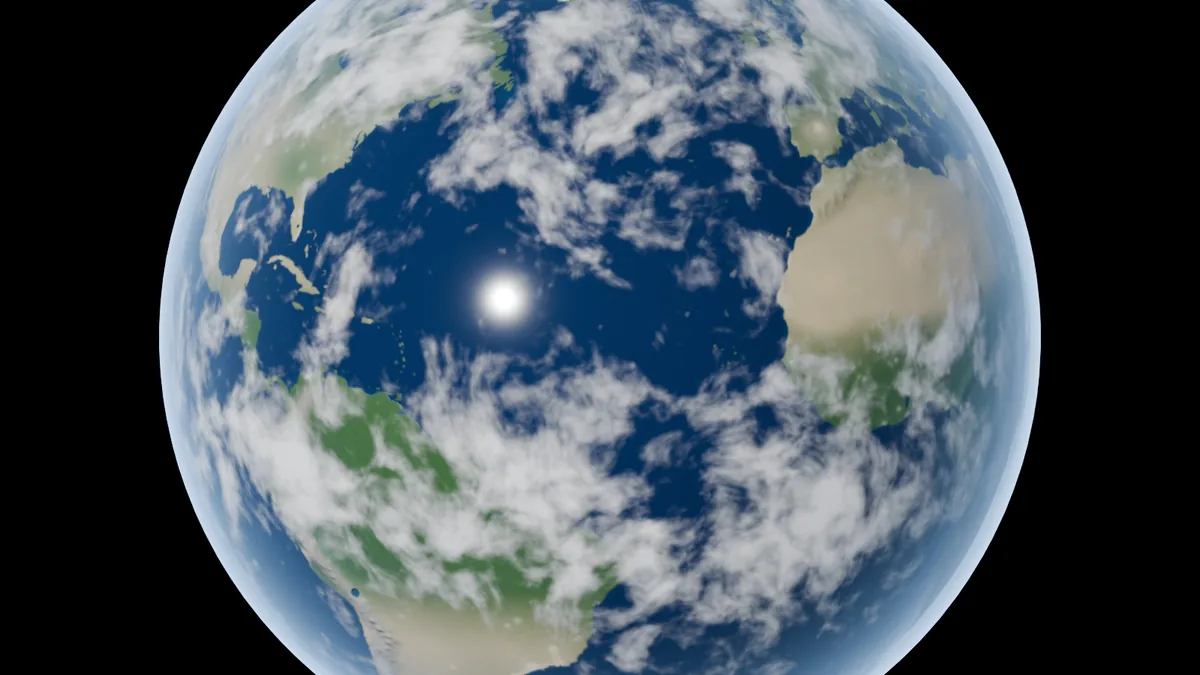
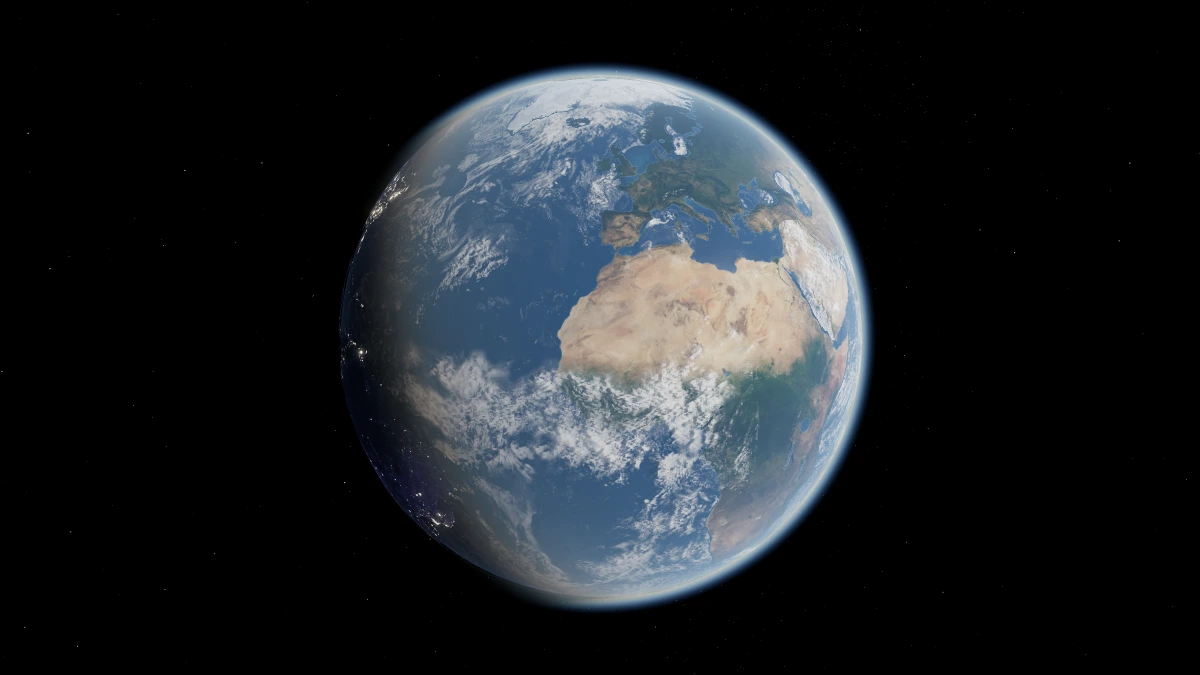
Sync with Earth Chronicle's redesign: re-shot poster, clouds on the hero globe, log entries
Earth Chronicle's interface was redesigned on 2026-11-12, but the homepage still showed it as
it used to look.

Poster and share cards
- earth_preview_{1200,800}.webp are re-shot from the app itself (present-day mode, interface
  hidden): the whole globe in frame, without the white sun-glint patch the app fixed long ago.
- New optional `posterFit: 'cover'` in products.js. The Earth poster keeps its subject inside the
  central square, so it can fill the near-square screen instead of sitting between two black
  bands; the other posters keep the default contain, which their edges need.
- make-og.py located the globe by thresholding; the new poster has stars and a dark night limb,
  so it now blurs first and centres on the image. Both share cards regenerated.

Hero globe
- A cloud layer with shadows, drifting slowly. The 113 KB cloud map loads after the globe is
  already showing and fades in, so it never delays the first frame.
- The ocean glint was one broad lobe that painted a white patch over the Gulf of Mexico; it is now
  a tight core plus a faint sheen.
- The atmosphere read as a ring of white fog: the shell is thinner (1.06 R), confined to the limb,
  and dark on the night side. Oceans are lifted slightly from Blue Marble's near-black.
- screenshots.mjs waits for the cloud layer before capturing.

Content
- Two log entries (zh + en): Earth Chronicle's interface redesign, and this update.
- design-review.md: re-shoot a work's poster whenever the work is redesigned.

diff --git a/src/globe.js b/src/globe.js
@@ -1,6 +1,7 @@
 // Hero globe: a real-time Three.js Earth with custom GLSL (day/night terminator, city lights,
-// ocean specular, atmospheric rim). Loads lazily after first paint; the static poster image stays
-// as the fallback when WebGL is unavailable or until textures are ready.
+// drifting clouds with shadows, ocean glint, a thin atmospheric limb). Loads lazily after first
+// paint; the static poster image stays as the fallback when WebGL is unavailable or until textures
+// are ready. The cloud map arrives after the globe is already showing and fades in.
 const orb = document.querySelector('.orb');
 const canvas = document.getElementById('globe');
 const reduceMotion = matchMedia('(prefers-reduced-motion: reduce)');
@@ -20,7 +21,10 @@ const VERT = /* glsl */ `
 const EARTH_FRAG = /* glsl */ `
   uniform sampler2D uDay;
   uniform sampler2D uNight;
+  uniform sampler2D uClouds;
   uniform vec3 uSun;
+  uniform float uCloudShift;   // clouds drift slowly over the ground (offset in u)
+  uniform float uCloudMix;     // 0 until the cloud map has loaded, then eased to 1
   varying vec2 vUv;
   varying vec3 vNormal;
   varying vec3 vWorldPos;
@@ -34,30 +38,46 @@ const EARTH_FRAG = /* glsl */ `
     vec3 dayCol = texture2D(uDay, vUv).rgb;
     vec3 lights = texture2D(uNight, vUv).rgb;
 
+    // oceans are the bluish pixels of the colour map. Blue Marble water is nearly black, which
+    // reads as a hole beside the lit land, so lift it slightly.
+    float ocean = smoothstep(0.02, 0.14, dayCol.b - max(dayCol.r, dayCol.g));
+    dayCol += vec3(0.010, 0.040, 0.085) * ocean;
+
+    vec2 cuv = vec2(vUv.x + uCloudShift, vUv.y);
+    float cloud = smoothstep(0.2, 0.95, texture2D(uClouds, cuv).r) * uCloudMix;   // thinned: the continents must stay readable
+    float cloudShadow = smoothstep(0.2, 0.95, texture2D(uClouds, cuv + vec2(0.004, 0.0)).r) * uCloudMix;
+
     // diffuse with a soft ambient floor so the night side is not pure black
-    vec3 col = dayCol * (0.035 + 0.95 * max(ndl, 0.0));
+    vec3 col = dayCol * (0.035 + 1.3 * max(ndl, 0.0));
+    col *= 1.0 - 0.32 * cloudShadow * day;
 
     // warm twilight band along the terminator
     float twilight = smoothstep(-0.18, 0.04, ndl) * (1.0 - smoothstep(0.04, 0.32, ndl));
     col += dayCol * vec3(0.9, 0.45, 0.2) * twilight * 0.35;
 
-    // city lights on the night side
-    col += lights * vec3(1.0, 0.86, 0.62) * (1.0 - day) * 1.5;
+    // city lights on the night side, dimmed under cloud
+    col += lights * vec3(1.0, 0.86, 0.62) * (1.0 - day) * 1.5 * (1.0 - 0.7 * cloud);
 
-    // ocean specular: oceans are the bluish pixels of the color map
-    float ocean = smoothstep(0.02, 0.14, dayCol.b - max(dayCol.r, dayCol.g));
+    // sun glint on open water: a tight core plus a faint wide sheen. A single broad lobe used to
+    // paint a white patch over whole seas.
     vec3 H = normalize(L + V);
-    float spec = pow(max(dot(N, H), 0.0), 60.0) * ocean * 0.55 * day;
-    col += vec3(1.0, 0.95, 0.85) * spec;
+    float nh = max(dot(N, H), 0.0);
+    float spec = (pow(nh, 240.0) * 0.45 + pow(nh, 26.0) * 0.045) * ocean * day * (1.0 - cloud);
+    col += vec3(1.0, 0.93, 0.82) * spec;
 
-    // thin atmospheric rim on the lit limb
-    float rim = pow(1.0 - max(dot(N, V), 0.0), 3.2);
-    col += vec3(0.35, 0.6, 1.0) * rim * (0.25 + 0.75 * day) * 0.9;
+    // clouds: lit by the sun, warm at the terminator, almost invisible at night
+    vec3 cloudCol = vec3(0.03 + 0.98 * max(ndl, 0.0)) + vec3(0.9, 0.55, 0.3) * twilight * 0.16;
+    col = mix(col, cloudCol, cloud * 0.86);
+
+    // thin blue limb where the line of sight grazes the air
+    float rim = pow(1.0 - max(dot(N, V), 0.0), 3.6);
+    col += vec3(0.30, 0.55, 1.0) * rim * (0.06 + 0.94 * day) * 0.26;
 
     gl_FragColor = vec4(col, 1.0);
     #include <colorspace_fragment>
   }`;
 
+// The shell is 6% larger than the planet, so the planet's edge sits at dot(N, V) = 0.33 on it.
 const ATMO_FRAG = /* glsl */ `
   uniform vec3 uSun;
   varying vec3 vNormal;
@@ -66,11 +86,11 @@ const ATMO_FRAG = /* glsl */ `
     vec3 N = normalize(vNormal);
     vec3 V = normalize(cameraPosition - vWorldPos);
     float f = dot(N, V);                       // 1 at disc centre, 0 at the outer edge of the shell
-    float inner = smoothstep(0.85, 0.36, f);   // fade out over the planet disc
-    float outer = smoothstep(0.0, 0.36, f);    // fade out towards space
-    float lit = 0.3 + 0.7 * smoothstep(-0.35, 0.45, dot(N, normalize(uSun)));
-    float a = inner * outer * lit;
-    gl_FragColor = vec4(vec3(0.42, 0.66, 1.0) * a * 0.85, a);
+    float outer = smoothstep(0.0, 0.33, f);    // fade out towards space
+    float inner = smoothstep(0.52, 0.33, f);   // fade out over the planet disc (its outer ~8%)
+    float lit = 0.05 + 0.95 * smoothstep(-0.3, 0.5, dot(N, normalize(uSun)));
+    float a = inner * outer * outer * lit;
+    gl_FragColor = vec4(vec3(0.34, 0.6, 1.0) * a * 0.62, a);
     #include <colorspace_fragment>
   }`;
 
@@ -112,14 +132,20 @@ async function start() {
   const spin = new THREE.Group();        // rotates about the (tilted) polar axis
   tilt.add(spin);
 
+  // clouds start as a 1x1 black texture (no cloud) and are swapped in once the real map has loaded
+  const noClouds = new THREE.DataTexture(new Uint8Array([0, 0, 0, 255]), 1, 1);
+  noClouds.needsUpdate = true;
+  const earthUniforms = { uDay: { value: day }, uNight: { value: night }, uClouds: { value: noClouds }, uSun: { value: sun }, uCloudShift: { value: 0 }, uCloudMix: { value: 0 } };
+  let cloudsReady = false;
+
   const earth = new THREE.Mesh(
     new THREE.SphereGeometry(1, 96, 96),
-    new THREE.ShaderMaterial({ vertexShader: VERT, fragmentShader: EARTH_FRAG, uniforms: { uDay: { value: day }, uNight: { value: night }, uSun: { value: sun } } }),
+    new THREE.ShaderMaterial({ vertexShader: VERT, fragmentShader: EARTH_FRAG, uniforms: earthUniforms }),
   );
   spin.add(earth);
 
   const atmo = new THREE.Mesh(
-    new THREE.SphereGeometry(1.085, 96, 96),
+    new THREE.SphereGeometry(1.06, 96, 96),
     new THREE.ShaderMaterial({ vertexShader: VERT, fragmentShader: ATMO_FRAG, uniforms: { uSun: { value: sun } }, transparent: true, depthWrite: false, blending: THREE.AdditiveBlending }),
   );
   atmo.renderOrder = 1;
@@ -190,6 +216,11 @@ async function start() {
       if (Math.abs(velY) < 1e-4) velY = 0;
       if (autoSpeed() || velX || velY) needsRender = true;
     }
+    if (cloudsReady) {
+      const u = earthUniforms;
+      if (u.uCloudMix.value < 1) { u.uCloudMix.value = Math.min(1, u.uCloudMix.value + dt / 1.4); needsRender = true; }
+      if (autoSpeed()) u.uCloudShift.value = (u.uCloudShift.value + dt * 0.0035) % 1;   // weather drifts east
+    }
     // ease the user's pitch on top of the base viewing angle
     const targetX = 0.28 + pitch;
     if (Math.abs(tilt.rotation.x - targetX) > 1e-4) { tilt.rotation.x += (targetX - tilt.rotation.x) * 0.15; needsRender = true; }
@@ -215,6 +246,18 @@ async function start() {
   showTheta(performance.now(), true);
   orb.classList.add('ready');
   loop();
+
+  // the cloud map is the least essential texture, so it never delays the globe
+  loader.loadAsync('/site/earth_clouds_1280.webp').then((tex) => {
+    tex.wrapS = THREE.RepeatWrapping;
+    tex.anisotropy = aniso; tex.generateMipmaps = true; tex.minFilter = THREE.LinearMipmapLinearFilter;
+    earthUniforms.uClouds.value = tex;
+    cloudsReady = true;
+    orb.classList.add('clouds');   // lets the screenshot script wait for the finished picture
+    if (reduceMotion.matches) earthUniforms.uCloudMix.value = 1;
+    needsRender = true;
+    if (!raf || reduceMotion.matches) renderer.render(scene, camera);
+  }).catch(() => {});
 }
 
 // Defer until the browser is idle so the hero text paints first.

diff --git a/src/site.css b/src/site.css
@@ -196,7 +196,7 @@ h1 em::after { content: ""; position: absolute; left: 0; right: 0; bottom: .04em
 .scope { position: relative; aspect-ratio: 1; width: min(100%, 500px); justify-self: center; }
 .orb { position: absolute; inset: 9%; border-radius: 50%; overflow: hidden; background: var(--orb-ground); cursor: grab; touch-action: pan-y; user-select: none; -webkit-user-select: none; }
 .orb:active { cursor: grabbing; }
-.orb img { width: 100%; height: 100%; object-fit: cover; transform: scale(1.35); transition: opacity .9s ease; pointer-events: none; }
+.orb img { width: 100%; height: 100%; object-fit: cover; transform: scale(1.12); transition: opacity .9s ease; pointer-events: none; }
 .orb canvas { position: absolute; inset: 0; width: 100%; height: 100%; display: block; opacity: 0; transition: opacity .9s ease; }
 .orb.ready img { opacity: 0; }
 .orb.ready canvas { opacity: 1; }
@@ -248,9 +248,10 @@ h1 em::after { content: ""; position: absolute; left: 0; right: 0; bottom: .04em
 .feed { display: grid; grid-template-columns: minmax(0, 1.55fr) minmax(0, 1fr); margin-top: 28px; }
 /* background-color only: the shorthand would wipe the .frame corner marks */
 .screen { min-height: 400px; overflow: hidden; background-color: #020409; }
-/* contain, not cover: the posters are landscape and the screen is near-square beside the dossier,
-   so cover cropped the Earth into a blur of cloud and cut the anatomy lab's side panels. The
-   letterbox bands are where the overlay readouts sit. */
+/* contain by default: the posters are landscape and the screen is near-square beside the dossier,
+   so cover would cut the anatomy lab's side panels and the village's edges; the letterbox bands
+   are where the overlay readouts sit. A poster whose subject sits inside its central square (the
+   Earth) opts into cover with `posterFit` in products.js, set inline by site.js. */
 .screen-poster { position: absolute; inset: 0; width: 100%; height: 100%; object-fit: contain; transition: opacity .3s, filter .4s; }
 .screen .scan { position: absolute; inset: 0; pointer-events: none; z-index: 1; background: repeating-linear-gradient(0deg, var(--scan) 0 1px, transparent 1px 3px); }
 .screen .cross { position: absolute; left: 50%; top: 50%; width: 44px; height: 44px; transform: translate(-50%, -50%); pointer-events: none; z-index: 1; fill: none; stroke: #cfe6ff; stroke-width: 1; opacity: .55; }

diff --git a/src/updates.js b/src/updates.js
@@ -10,6 +10,21 @@
 //   url     可选：直达链接
 export const UPDATES = [
   {
+    date: '2026-11-12',
+    target: 'site',
+    title: '首屏地球有了云层',
+    text: '首屏那颗可以拖动的地球加上了缓慢漂移的云层与云影，海面高光收成一个亮点，大气边缘变薄；地球纪元的海报和分享卡片换成了从新界面里拍下的画面。',
+    en: { title: 'Clouds over the hero globe', text: 'The draggable globe at the top now has slowly drifting clouds and their shadows, a sun glint that is a point instead of a patch, and a thinner atmospheric limb. Earth Chronicle’s poster and the share cards were re-shot from its new interface.' },
+  },
+  {
+    date: '2026-11-12',
+    target: 'earth-chronicle',
+    title: '界面重做',
+    text: '地球完整入画并留出余白，文字去掉了边框，细节默认收起；时间轴压成一行，只有当前年代亮起自己的颜色；地名标注互相避让；月球与生命之树不再从空画面开场，手机上顶栏不再溢出。',
+    url: 'https://rory-sun.github.io/earth-chronicle/',
+    en: { title: 'Interface redesign', text: 'The whole globe now sits in frame with room around it, the text lost its boxes and details stay folded until asked for. The timeline is a single line where only the current era takes its colour, place labels make way for one another, the Moon and the Tree of Life no longer open on an empty picture, and the top bar fits on a phone.' },
+  },
+  {
     date: '2026-10-11',
     target: 'site',
     title: '中英双语',

diff --git a/src/products.js b/src/products.js
@@ -11,6 +11,7 @@
 //   stages    制作管线覆盖度 { data, blender, realtime, story }，0 未用 / 1 部分 / 2 核心
 //   tags      标签数组
 //   poster    海报图路径（视口里的静态画面）
+//   posterFit 可选：'cover' 让海报铺满视口（主体必须留在画面中央的正方形内）；默认 'contain' 完整显示
 //   accent    作品主色
 //   url       完整版链接（新标签页打开）
 //   embed     可选：页内嵌入地址（为空则只提供「打开完整版」）
@@ -46,7 +47,8 @@ export const PRODUCTS = [
       ],
     },
     tags: ['三维交互', '时间轴叙事', 'Blender 烘焙', '零 API', '离线运行'],
-    poster: '/site/earth_preview_1200.webp',
+    poster: '/site/earth_preview_1200.webp',   // captured from the app itself (今日地球, UI hidden); the globe stays inside the central square
+    posterFit: 'cover',
     accent: '#3d8ee6',
     url: 'https://rory-sun.github.io/earth-chronicle/',
     embed: 'https://rory-sun.github.io/earth-chronicle/?embed=1',

diff --git a/src/site.js b/src/site.js
@@ -82,6 +82,7 @@ function select(i, { focusRow = false } = {}) {
   resetScreen();
   screen.dataset.id = p.id;
   poster.src = p.poster;
+  poster.style.objectFit = p.posterFit || '';
   poster.alt = t('js.posterAlt', { name: nameOf(p) });
   document.getElementById('ov-code').textContent = p.code;
   document.getElementById('ov-scale').textContent = t('js.scale', { v: loc(p, 'scale') });

diff --git a/scripts/make-og.py b/scripts/make-og.py
@@ -56,9 +56,12 @@ def render(lang):
 
     # ---- the Earth, masked to a circle with an outer halo
     src = Image.open(os.path.join(SITE, "earth_preview_1200.webp")).convert("RGBA")
-    gray = src.convert("L")
-    bbox = gray.point(lambda v: 255 if v > 28 else 0).getbbox()
-    cx, cy = (bbox[0] + bbox[2]) // 2, (bbox[1] + bbox[3]) // 2
+    # The poster is a capture of the app: a centred globe on a star field, with a dark night limb.
+    # Blur first so stars drop under the threshold; take the radius from the taller extent (the
+    # night side is too dark to bound the width) and the horizontal centre from the image itself.
+    gray = src.convert("L").filter(ImageFilter.GaussianBlur(6))
+    bbox = gray.point(lambda v: 255 if v > 16 else 0).getbbox()
+    cx, cy = src.width // 2, (bbox[1] + bbox[3]) // 2
     rad = max(bbox[2] - bbox[0], bbox[3] - bbox[1]) // 2
     crop = src.crop((cx - rad, cy - rad, cx + rad, cy + rad))
 

diff --git a/docs/design-review.md b/docs/design-review.md
@@ -41,6 +41,7 @@ npm run build && npm run screenshots
 - 不要出现看起来像占位符的东西。裸露的大号 emoji 是最常见的一种，应该放进有设计感的容器里。
 - 深浅两套主题下都要检查一遍，尤其是阴影、光晕、玻璃拟态这类依赖背景色的效果。
 - 小字对比度不低于 4.5:1。
+- **作品改版后重拍海报**。海报要从作品当前的界面里截取（隐藏界面元素，只留画面），否则主页展示的是作品已经没有的样子；地球纪元的旧海报就一直带着作品里早已修掉的高光白斑。重拍后同时跑 `python scripts/make-og.py` 更新分享卡片。主体完整落在画面中央正方形内的海报，可以在 `products.js` 里设 `posterFit: 'cover'` 铺满视口，其余保持默认的完整显示。
 
 ### 性能与动效
 
@@ -67,6 +68,8 @@ npm run build && npm run screenshots
 3. **九个特性条目已不再显示 emoji**，但档案里的特性仍是文字列表，可以考虑配一张每件作品的技术截图。
 
 **视觉与交互**
+
+首屏地球已于 2026-11-12 加上云层与云影（云图在地球显示之后才加载，不拖慢首屏），高光收成亮点，大气边缘变薄。
 
 4. **给首屏地球一条时间轴**，让它成为论点本身。需要从 earth-chronicle 管线烘焙各地质年代的贴图，跨仓库。
 5. **演示失败没有兜底**：浏览器在 iframe 被拦截时同样会触发 load 事件。改版加了「关闭演示」按钮，至少能退出死掉的画面，但仍识别不了失败。
